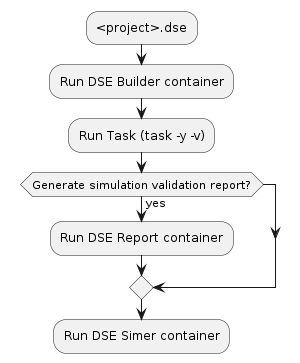
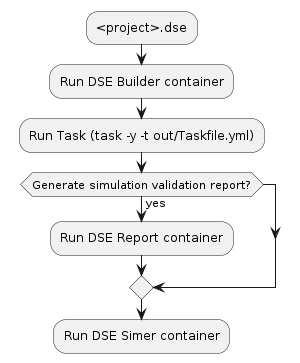
Fix missing model name for external models in simulation.yaml

diff --git a/ast/internal/app/generate/simulation.go b/ast/internal/app/generate/simulation.go
@@ -147,15 +147,19 @@ func (c *GenerateCommand) GenerateSimulation() error {
 			if astModel.Metadata != nil {
 				md = *astModel.Metadata
 			}
-			func() {
-				defer func() {
-					if r := recover(); r != nil {
+			if astModel.External != nil && *astModel.External == true {
+				modelName = astModel.Name
+			} else {
+				func() {
+					defer func() {
+						if r := recover(); r != nil {
+						}
+					}()
+					if md["models"].(map[string]interface{})[astModel.Model].(map[string]interface{})["mcl"].(bool) == true {
+						modelName = astModel.Name
 					}
 				}()
-				if md["models"].(map[string]interface{})[astModel.Model].(map[string]interface{})["mcl"].(bool) == true {
-					modelName = astModel.Name
-				}
-			}()
+			}
 			var annotationMap map[string]interface{}
 			if astModel.Annotations != nil {
 				annotationMap = make(map[string]interface{})